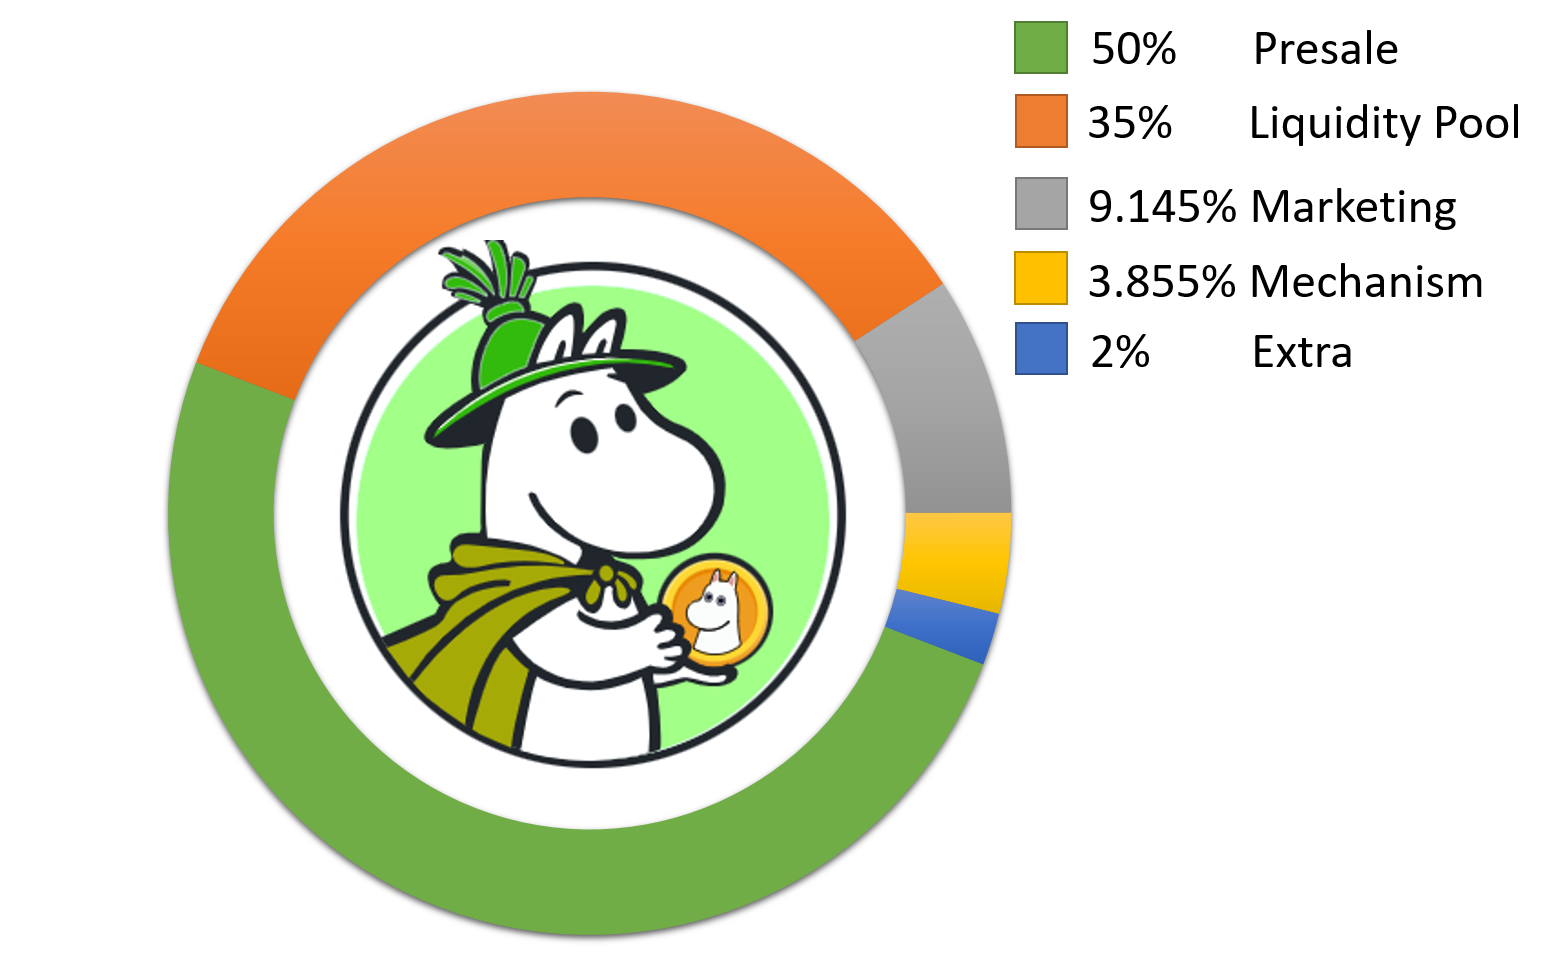
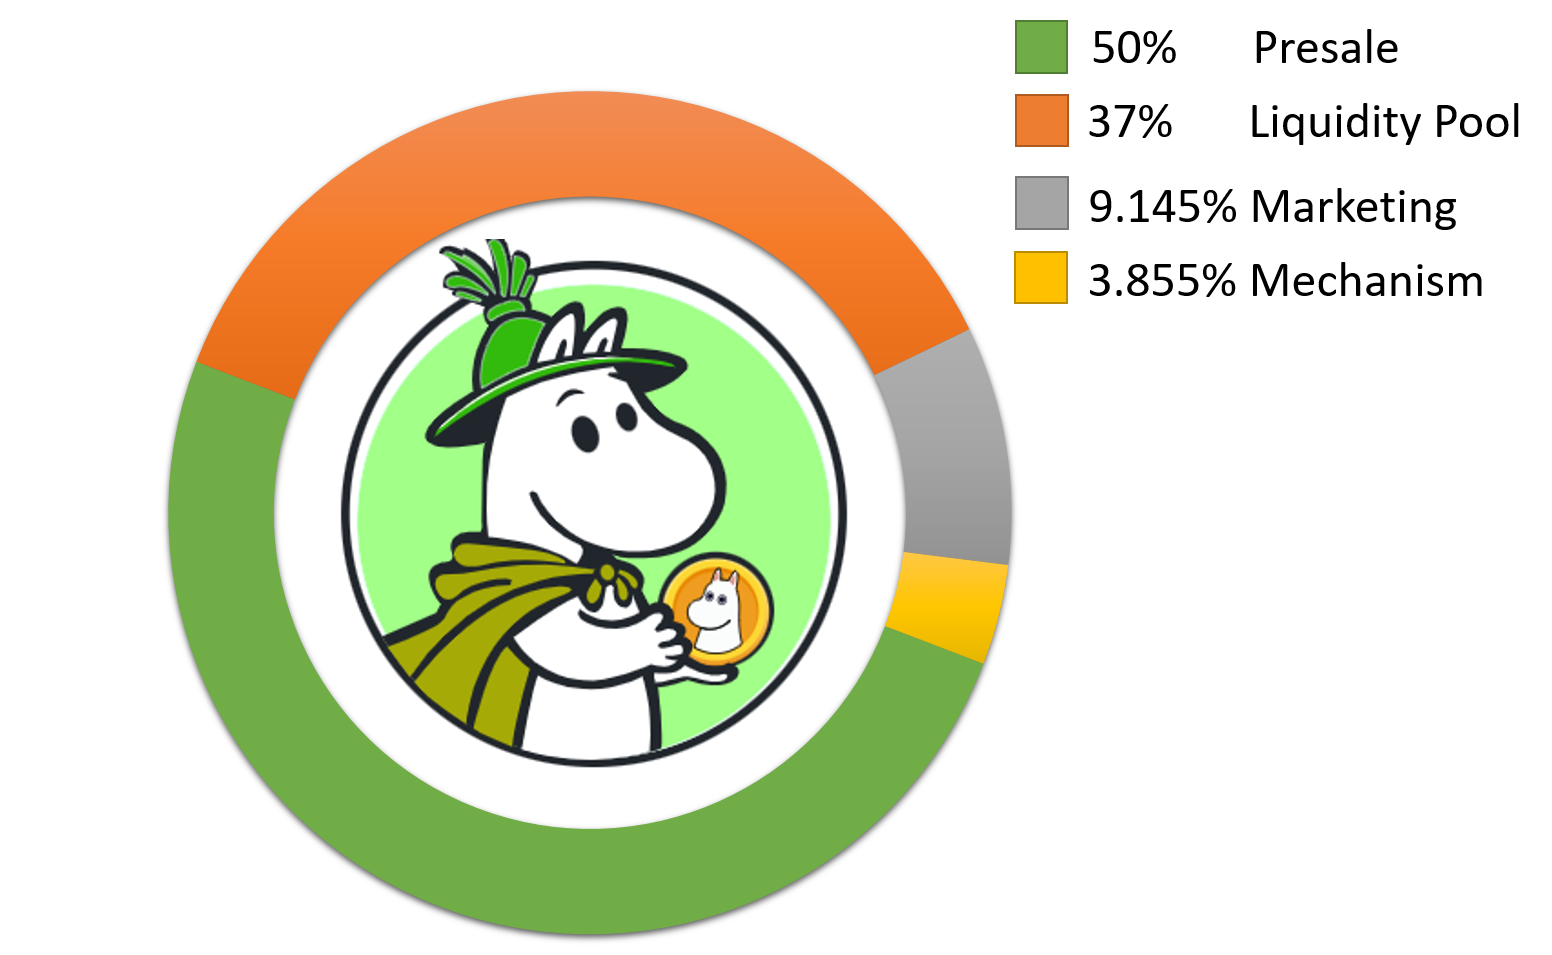
last update

diff --git a/src/data/data.tsx b/src/data/data.tsx
@@ -13,7 +13,8 @@ import InstagramIcon from '../components/Icon/InstagramIcon';
 import LinkedInIcon from '../components/Icon/LinkedInIcon';
 import StackOverflowIcon from '../components/Icon/StackOverflowIcon';
 import TwitterIcon from '../components/Icon/TwitterIcon';
-import landCoinMarket from '../images/CoinMarketCap.png'
+import landDexscreener from '../images/dexscreener.png'
+import landDextools from '../images/dextools-seeklogo.svg'
 import testimonialImage from '../images/family-bg.jpg';
 import heroImage from '../images/landing-backgroung.jpg';
 import littleMy from '../images/LittleMy.jpg'
@@ -27,7 +28,6 @@ import snufkin from '../images/Snufkin.jpg'
 import landTelegram from '../images/telegram-svgrepo-com.svg';
 import landTikTok from '../images/TikTok.png'
 import landTwitter from '../images/twitter-circle-svgrepo-com.svg'
-import landUniswap from '../images/uniswap-seeklogo.svg'
 import {
   About,
   ContactSection,
@@ -360,7 +360,7 @@ export const coinLinks = [
   {label: 'Twitter', Icon: landTwitter, href: 'https://x.com/MuminTrollCoin'},
   {label: 'Telegram', Icon: landTelegram, href: 'https://t.me/+lUMOUZPH1KxjYWZk'},
   {label: 'TikTok', Icon: landTikTok, href: 'https://www.tiktok.com/@muminbase'},
-  {label: 'Uniswap', Icon: landUniswap, href: 'https://app.uniswap.org/swap'},
   {label: 'Pancakeswap', Icon: landPancakeswap, href: 'https://pancakeswap.finance/swap'},
-  {label: 'CoinMarketCap', Icon: landCoinMarket, href: 'https://coinmarketcap.com/dexscan/solana/CTLVrVuFx9pdZ7xLio65TMuo2mnErF1fGNebaCTFxcqi/'},
+  {label: 'Dextools', Icon: landDextools, href: 'https://www.dextools.io/app/en/base/pair-explorer/0x900a397f6e29604eebed9b8a865f3a24e16f9ede?t=1718899979198'},
+  {label: 'Dexscreener', Icon: landDexscreener , href: 'https://dexscreener.com/base/0x900A397f6e29604EebED9B8a865F3A24E16F9EDE'},
 ];

diff --git a/src/components/Sections/Resume/index.tsx b/src/components/Sections/Resume/index.tsx
@@ -7,7 +7,7 @@ import profileImageSrc from '../../../images/tokenomics.png'
 import Section from '../../Layout/Section';
 
 const Resume: FC = memo(() => {
-  const description1 = `87% of the tokens were sent to the liquidity pool, LP tokens were burnt, and contract is renounced. The remaining 13% of the supply is being used for shareholders, market and  safe of reflection mechanism.`;
+  const description1 = `50% of the tokens were sold in pre-sell and 37% were added to the liquidity pool, LP tokens are burnt, and contract is renounced. 3.855% magical tokens were left with contract. The remaining 9.145% of the supply is being used for marketing.`;
   const description2 = `7.77% of the fee is distributed to holders in ETH.`;
 
   return (

diff --git a/src/components/Sections/Footer.tsx b/src/components/Sections/Footer.tsx
@@ -29,6 +29,8 @@ const Footer: FC = memo(() => (
         </span>
       </a> */}
       <span className="text-sm text-neutral-400">© {currentYear} by Aurora. All rights reserved!</span>
+      <p className="text-sm text-neutral-400">0x6544edC83818743C6cd71a2547CBE0d5bFb7aEA3</p>
+
     </div>
   </div>
 ));
